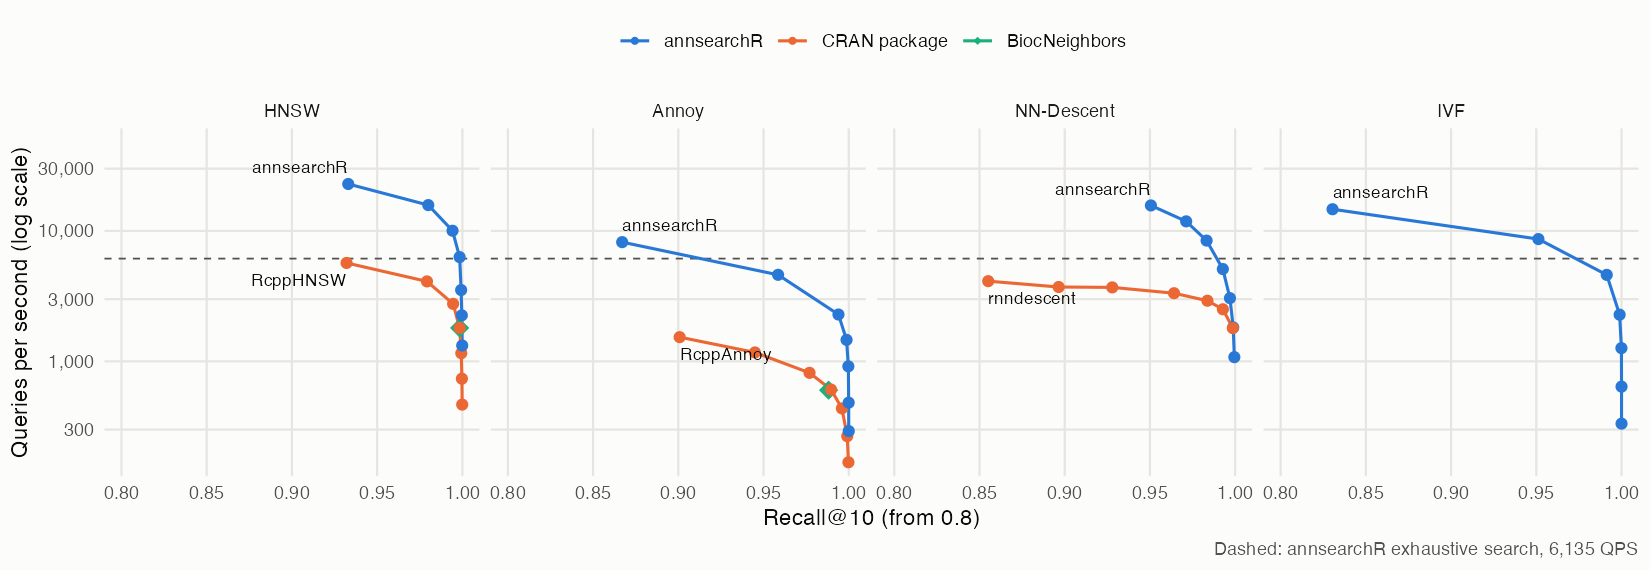
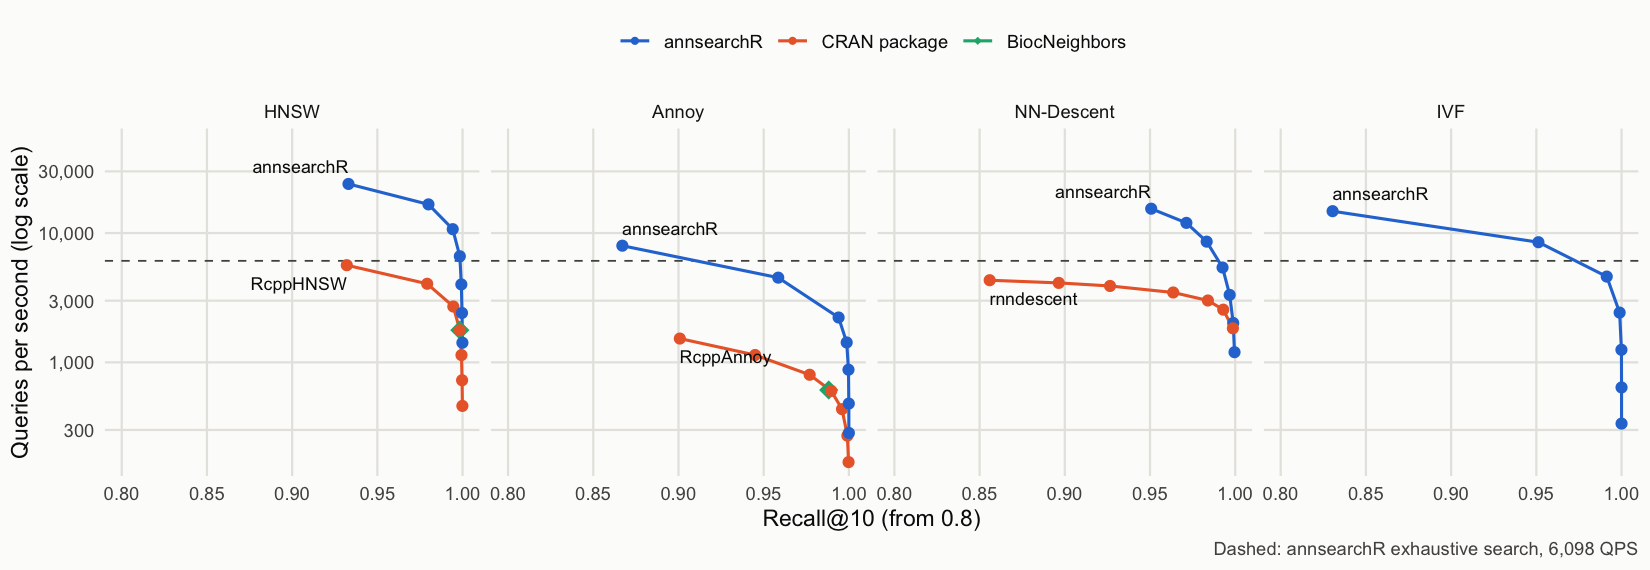
docs: benchmarks article and NEWS for 0.2.0 results

diff --git a/NEWS.md b/NEWS.md
@@ -8,7 +8,8 @@
   NN-Descent search structure. On SIFT-128 (1M x 128, 10 threads), the
   NN-Descent build peaks at 6.3 GB instead of 8.2 GB and saves to 1.9 GB
   instead of 2.4 GB; Annoy peaks at 5.2 GB instead of 6.0 GB and builds in
-  7.0 s instead of 8.3 s. Recall and query speed are unchanged.
+  7.0 s instead of 8.3 s; the kd forest peaks at 3.7 GB instead of 4.2 GB.
+  Recall is unchanged and query speed is within run-to-run noise.
 - Manhattan NN-Descent seeds its graph by kd-tree leaf join, like the other
   metrics.
 - `.verbose` takes `0`, `1` or `2` as well as `FALSE`/`TRUE`. `2` prints timed
@@ -19,6 +20,9 @@
   RNN-Descent) are refused with an error.
 - Breaking: the on-disk format changed. Indices saved with 0.1.0 do not load,
   rebuild and save them again.
+- `faer` comes in without its `npy` feature, which drops nine crates from the
+  vendored Rust sources.
+- The benchmarks article is rerun on 0.2.0.
 
 # annsearchR 0.1.0
 
